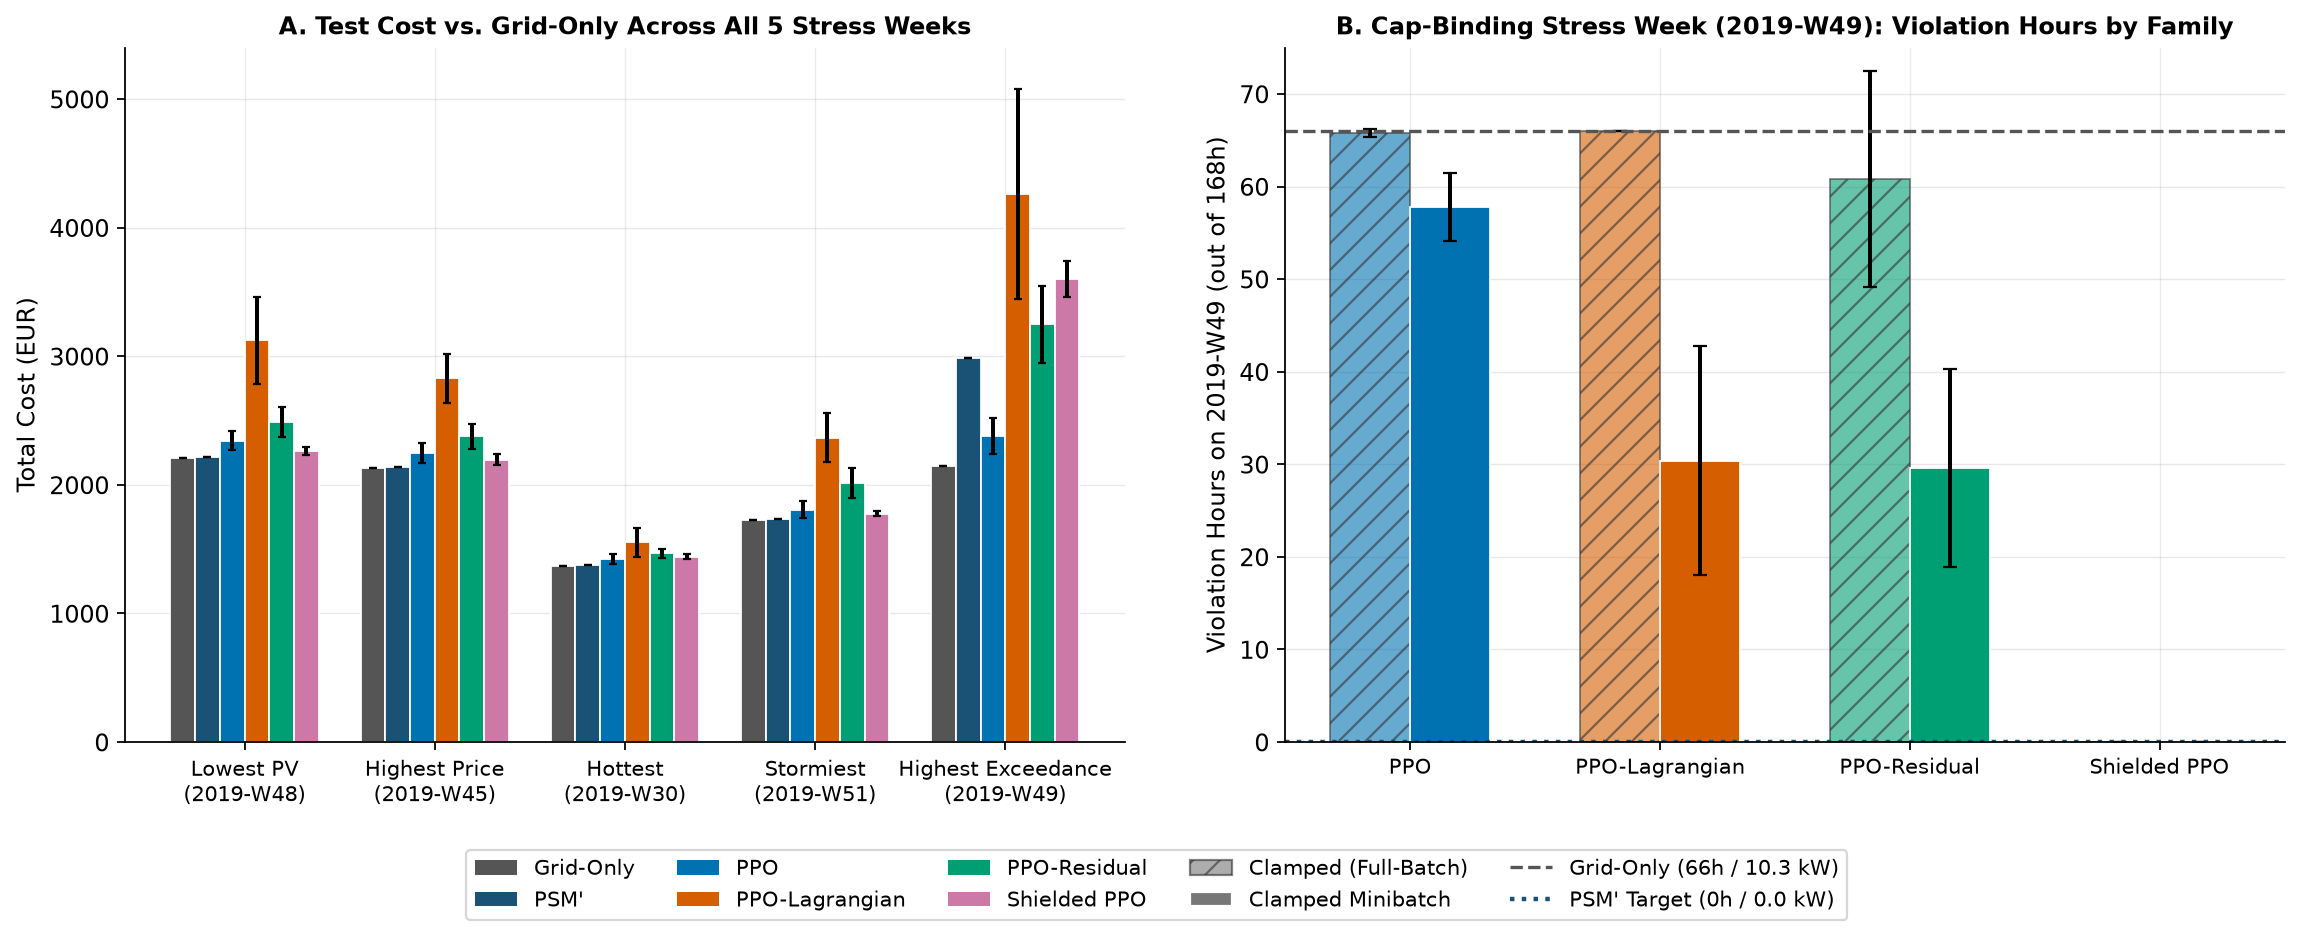
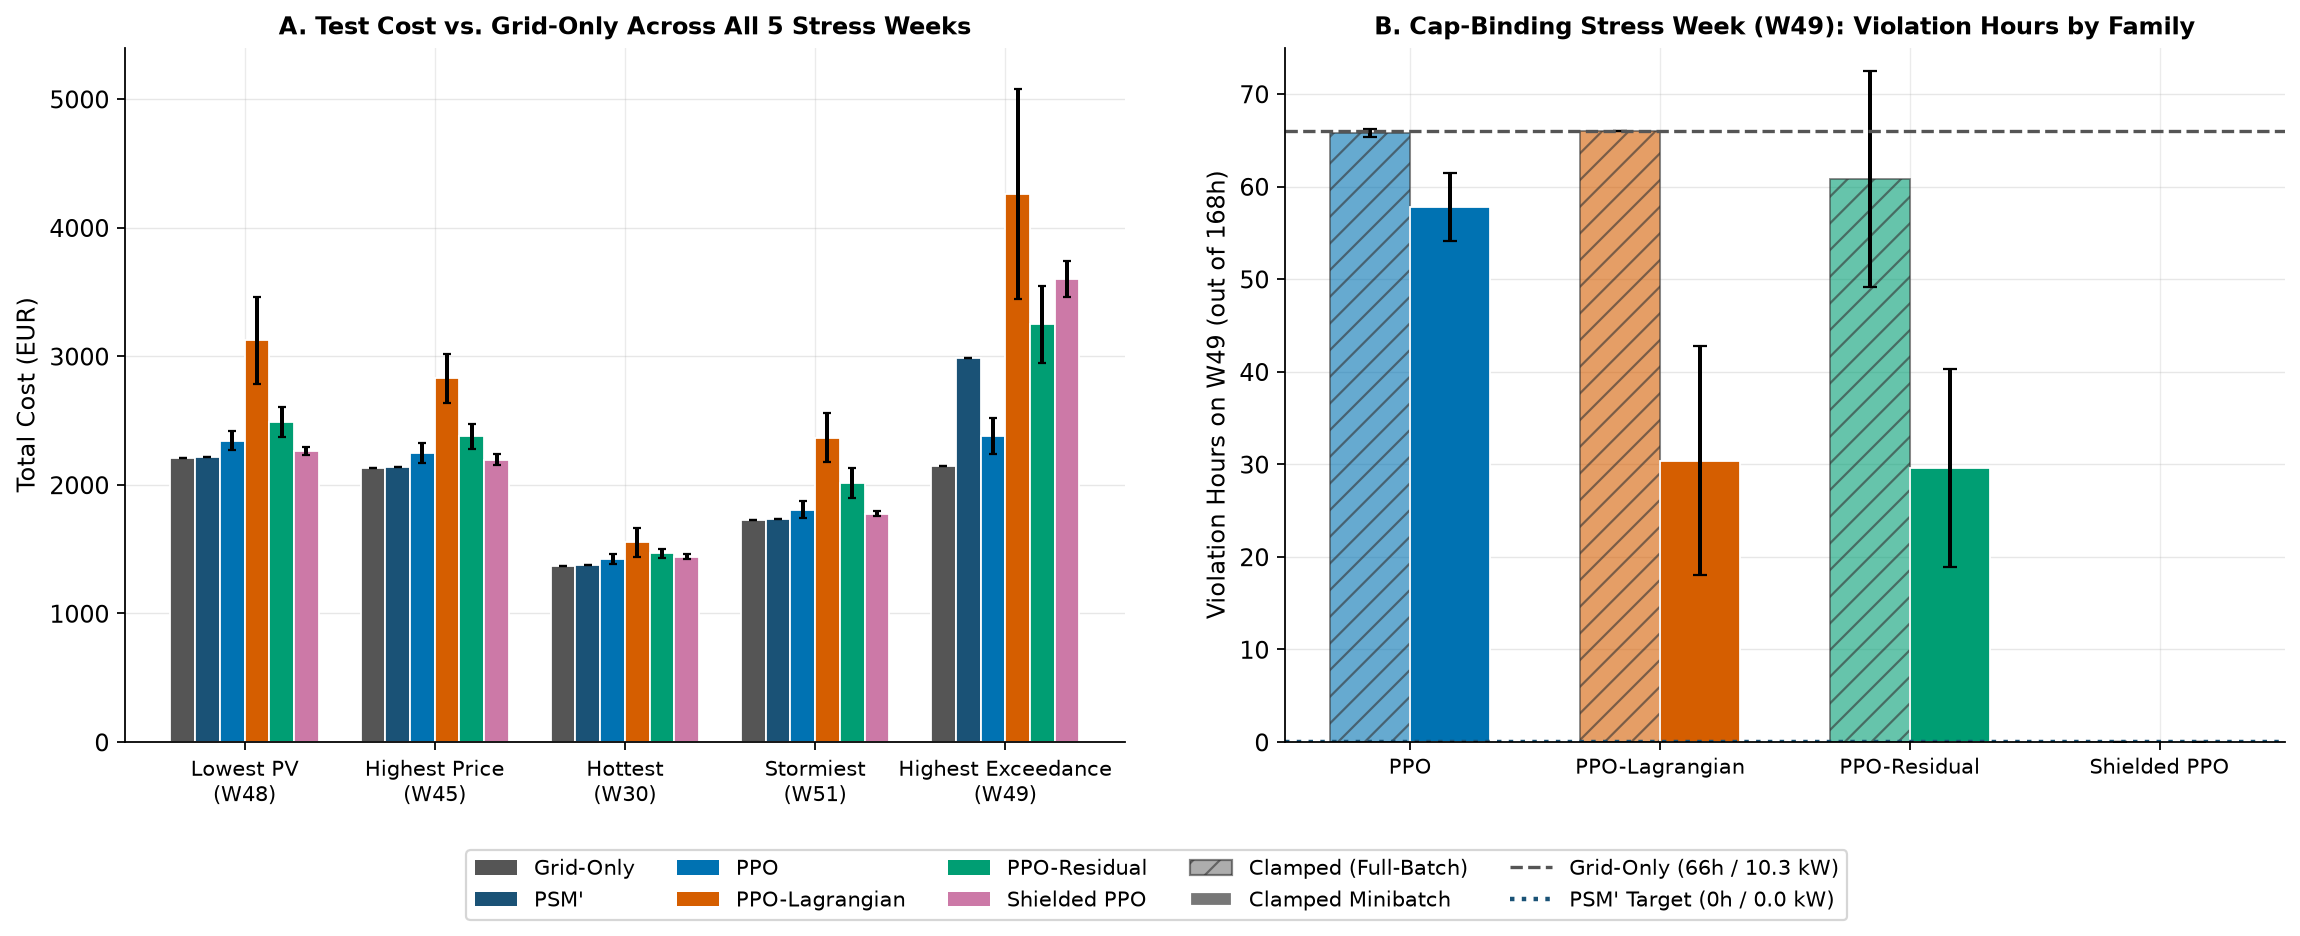
style(plots): remove redundant 2019- prefix from stress week labels while preserving month and day

diff --git a/tools/report/plots.py b/tools/report/plots.py
@@ -973,11 +973,11 @@ def fig_stress_weeks(out_dir: str):
 
     crits = ["lowest_pv", "highest_price", "hottest", "stormiest", "highest_exceedance"]
     crit_labels = [
-        "Lowest PV\n(2019-W48)",
-        "Highest Price\n(2019-W45)",
-        "Hottest\n(2019-W30)",
-        "Stormiest\n(2019-W51)",
-        "Highest Exceedance\n(2019-W49)",
+        "Lowest PV\n(W48)",
+        "Highest Price\n(W45)",
+        "Hottest\n(W30)",
+        "Stormiest\n(W51)",
+        "Highest Exceedance\n(W49)",
     ]
     methods = ["Grid-Only", "PSM'", "PPO", "PPO-Lagrangian", "PPO-Residual", "Shielded PPO"]
     colors = ["#555555", "#1A5276", "#0072B2", "#D55E00", "#009E73", "#CC79A7"]
@@ -1060,8 +1060,8 @@ def fig_stress_weeks(out_dir: str):
     ax2.axhline(0.0, ls=":", color="#1A5276", lw=2.0, label="PSM' Target (0h / 0.0 kW)")
 
     ax2.set_ylim(0, 75)
-    ax2.set_ylabel("Violation Hours on 2019-W49 (out of 168h)")
-    ax2.set_title("B. Cap-Binding Stress Week (2019-W49): Violation Hours by Family", fontsize=11, fontweight="bold")
+    ax2.set_ylabel("Violation Hours on W49 (out of 168h)")
+    ax2.set_title("B. Cap-Binding Stress Week (W49): Violation Hours by Family", fontsize=11, fontweight="bold")
     ax2.set_xticks(x2)
     ax2.set_xticklabels(rl_methods, fontsize=9.5)
     ax2.grid(axis="y", alpha=0.3)

diff --git a/tools/report/plot_stress_trajectory.py b/tools/report/plot_stress_trajectory.py
@@ -120,7 +120,7 @@ def main():
     ax1.fill_between(hours, CAP_KW, hist_res["grid_import"], where=res_exc_mask, color="#E74C3C", alpha=0.45, label="Cap Exceedance")
 
     ax1.set_ylabel("Grid Import (kW)")
-    ax1.set_title("A. Grid Import Trajectory vs. Contract Import Cap (2019-W49, Peak Exceedance Week)", fontweight="bold")
+    ax1.set_title("A. Grid Import Trajectory vs. Contract Import Cap (W49, Peak Exceedance Week)", fontweight="bold")
     ax1.set_ylim(0, 460)
     ax1.legend(loc="upper right", ncol=3, fontsize=9, frameon=True, framealpha=0.92, facecolor="white", edgecolor="#DDD")
     ax1.grid(True)
@@ -148,7 +148,7 @@ def main():
     ax3.plot(hours, hist_res["unserved"], label="PPO-Residual", color=COLORS["PPO-Residual"], linewidth=1.6, alpha=0.9)
 
     ax3.set_ylabel("Load Shed (kW)")
-    ax3.set_xlabel("Hour of Week (0 = Mon 00:00, 167 = Sun 23:00, Dec 2-8 2019)")
+    ax3.set_xlabel("Hour of Week (0 = Mon 00:00, 167 = Sun 23:00, Dec 2-8)")
     ax3.set_title("C. Load Shedding Dispatch (The Safety vs. Economic Penalty Trade-off)", fontweight="bold")
     ax3.set_ylim(-2, 110)
     ax3.set_xlim(0, 167)

diff --git a/README.md b/README.md
@@ -243,11 +243,11 @@ Full figure sets across all four experimental families (`unclamped`, `clamped`, 
   <tr>
     <td align="center" valign="top" width="50%">
       <img src="results/figures/comparison/stress_weeks_comparison.png" alt="Stress Weeks Comparison" width="460"><br>
-      <sub><b>5. Test Split Stress-Week Evaluation & 2019-W49 Family Comparison</b></sub>
+      <sub><b>5. Test Split Stress-Week Evaluation & W49 Family Comparison</b></sub>
     </td>
     <td align="center" valign="top" width="50%">
       <img src="results/figures/comparison/w49_dispatch_trajectory.png" alt="168-Hour Dispatch Trajectory" width="460"><br>
-      <sub><b>6. 168-Hour Dispatch Trajectory on Cap-Binding Week 2019-W49</b></sub>
+      <sub><b>6. 168-Hour Dispatch Trajectory on Cap-Binding Week W49</b></sub>
     </td>
   </tr>
 </table>
@@ -285,9 +285,9 @@ The Test split was kept closed until final evaluation via `tools/report/evaluate
 3. **Nuanced Residual PPO Test Performance:**
    - On the closed Test split, Residual PPO's mean cost of `37,633.81 ± 280.67 EUR` matches `PSM'` (`37,674.27 EUR`) within **0.14 standard deviations ($p = 0.77$)**, making the 40 EUR difference statistically indistinguishable from evaluation noise.
    - Crucially, Residual PPO does **not** achieve strict feasibility: it incurs **134.8 hours of violations (3.34% violation rate)** with `0.0702 kW` mean exceedance. While 2 seeds (104 and 105) pass the loose G1 threshold ($\le 0.05$ kW), neither achieves zero violations.
-4. **Decisive Cap-Binding Stress Week (`2019-W49`):**
-   - The 4 original meteorological stress weeks (`lowest_pv: 2019-W48`, `highest_price: 2019-W45`, `hottest: 2019-W30`, `stormiest: 2019-W51`) have net load below 368 kW, meaning even Grid-Only has 0 exceedance.
-   - Evaluating on the true cap-binding Test week (`2019-W49`, net load peak > 368 kW; 10.25 kW mean exceedance for Grid-Only over 66 hours) conclusively separates the methods:
+4. **Decisive Cap-Binding Stress Week (`W49`):**
+   - The 4 original meteorological stress weeks (`lowest_pv: W48`, `highest_price: W45`, `hottest: W30`, `stormiest: W51`) have net load below 368 kW, meaning even Grid-Only has 0 exceedance.
+   - Evaluating on the true cap-binding Test week (`W49`, net load peak > 368 kW; 10.25 kW mean exceedance for Grid-Only over 66 hours) conclusively separates the methods:
      - `Grid-Only`: 2,149.71 EUR | 10.25 kW exc | 66h violations
      - `PSM'`: 2,990.43 EUR | **0.00 kW exc** | **0h violations**
      - `clamped_ppo_lagrangian`: 2,158.79 EUR | 10.25 kW exc | 66.0h violations (fails completely)
